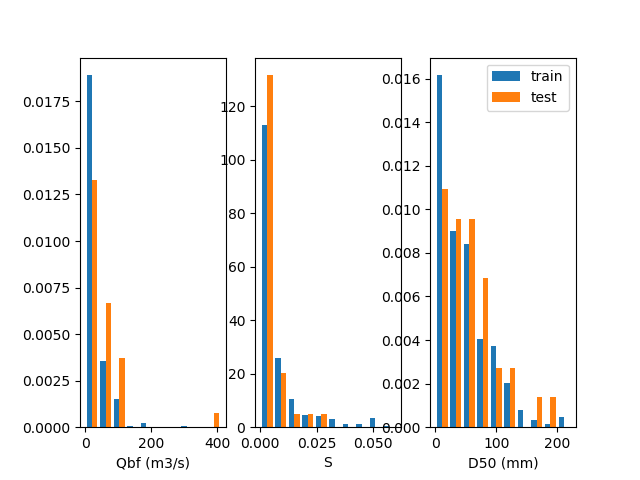
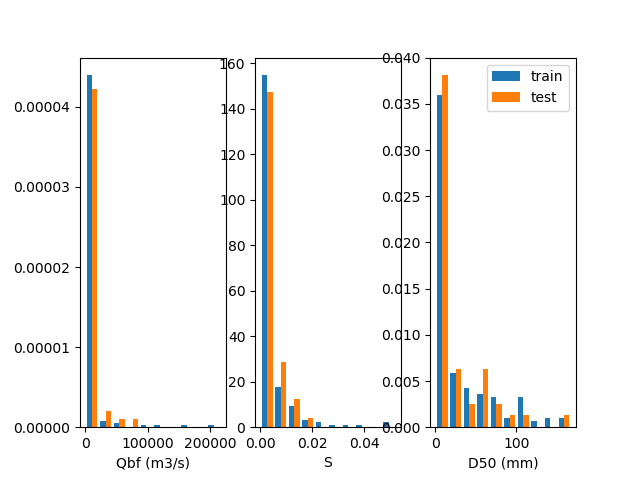
update for some other runs

diff --git a/channel_geom_nn.py b/channel_geom_nn.py
@@ -7,13 +7,14 @@ from sklearn.preprocessing import MinMaxScaler
 import tensorflow as tf
 
 # read the data
-df = pd.read_csv('data/mcelroy_dataclean.csv') # read data set using pandas
+# df = pd.read_csv('data/mcelroy_dataclean.csv') # read data set using pandas
+df = pd.read_csv('data/wilkerson_dataclean.csv') # read data set using pandas
 df = df.dropna(inplace=False)  # Remove all nan entries.
 print('Data summary:\n')
 print(df.describe(), '\n\n') # Overview of dataset
 
 # subset for train and test and rescale all values
-df_train, df_test = train_test_split(df, test_size=0.10)
+df_train, df_test = train_test_split(df, test_size=0.20)
 
 scaler = MinMaxScaler() # For normalizing dataset
 
@@ -26,22 +27,18 @@ y_train = scaler.fit_transform(df_train[['Bbf.m', 'Hbf.m']].values)
 X_test = scaler.fit_transform(df_test.drop(['Bbf.m', 'Hbf.m'], axis=1).values)
 y_test = scaler.fit_transform(df_test[['Bbf.m', 'Hbf.m']].values)
 
+
 def denormalize(df, norm_data):
     """
     Above written function for denormalization of data after normalizing
     this function will give original scale of values.
     """
-    # print(df[['Bbf.m', 'Hbf.m']].values)
-    # df = df[['Bbf.m', 'Hbf.m']].values.reshape(-1,1)
-    # norm_data = norm_data.reshape(-1,1)
+
     df = df[['Bbf.m', 'Hbf.m']].values
     norm_data = norm_data
     scl = MinMaxScaler()
     a = scl.fit_transform(df)
     new = scl.inverse_transform(norm_data)
-    # print('df:', df[:10, :])
-    # print('norm_data:', norm_data[:10, :])
-    # print('rescaled:', new[:10, :])
     return new
 
 
@@ -103,7 +100,7 @@ with tf.Session() as sess:
             sess.run([loss, train], feed_dict = {xs:X_train[j,:].reshape(1, X_train.shape[1]), 
                                                  ys:y_train[j,:].reshape(1, y_train.shape[1])})
 
-        # update the loss
+        # keep track of the loss
         c_train.append(sess.run(loss, feed_dict = {xs:X_train, ys:y_train}))
         c_test.append(sess.run(loss, feed_dict = {xs:X_test, ys:y_test}))
         
@@ -120,7 +117,7 @@ with tf.Session() as sess:
     pred = sess.run(output, feed_dict={xs:X_test})
     
     # denormalize data  
-    print('loss :', sess.run(loss, feed_dict={xs:X_test, ys:y_test}))
+    print('test loss :', sess.run(loss, feed_dict={xs:X_test, ys:y_test}))
     y_test = denormalize(df_test, y_test)
     pred = denormalize(df_test, pred)
 
@@ -132,7 +129,6 @@ with tf.Session() as sess:
     axes1[2].hist([df_train['D50.mm'], df_test['D50.mm']], histtype = 'bar', density = True)
     axes1[2].set_xlabel('D50 (mm)')
     plt.legend(['train', 'test'], loc = 'best')
-    # plt.show(block = False)
     fig1.savefig('figures/split.png')
 
     fig2, ax2 = plt.subplots(nrows=1, ncols=2)
@@ -156,8 +152,6 @@ with tf.Session() as sess:
     ax2[1].set_ylabel('pred')
     ax2[1].set_xlim([df['Bbf.m'].min(), df['Bbf.m'].max()])
     ax2[1].set_ylim([df['Bbf.m'].min(), df['Bbf.m'].max()])
-
-    # plt.show(block = False)
     fig2.savefig('figures/compare.png')
 
     fig3, ax3 = plt.subplots()
@@ -166,7 +160,6 @@ with tf.Session() as sess:
     ax3.set_xlabel('epoch')
     ax3.set_ylabel('loss')
     plt.legend(['train', 'test'], loc = 'best')
-    # plt.show(block = False)
     fig3.savefig('figures/train.png')
 
 
